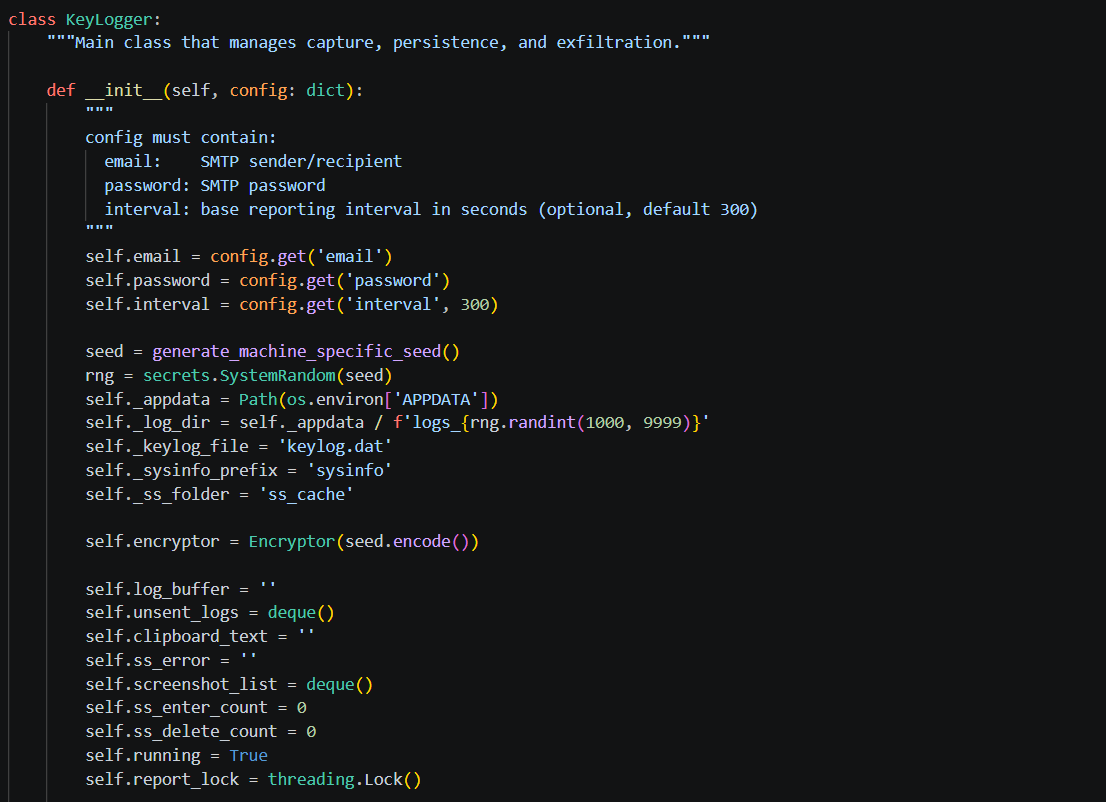
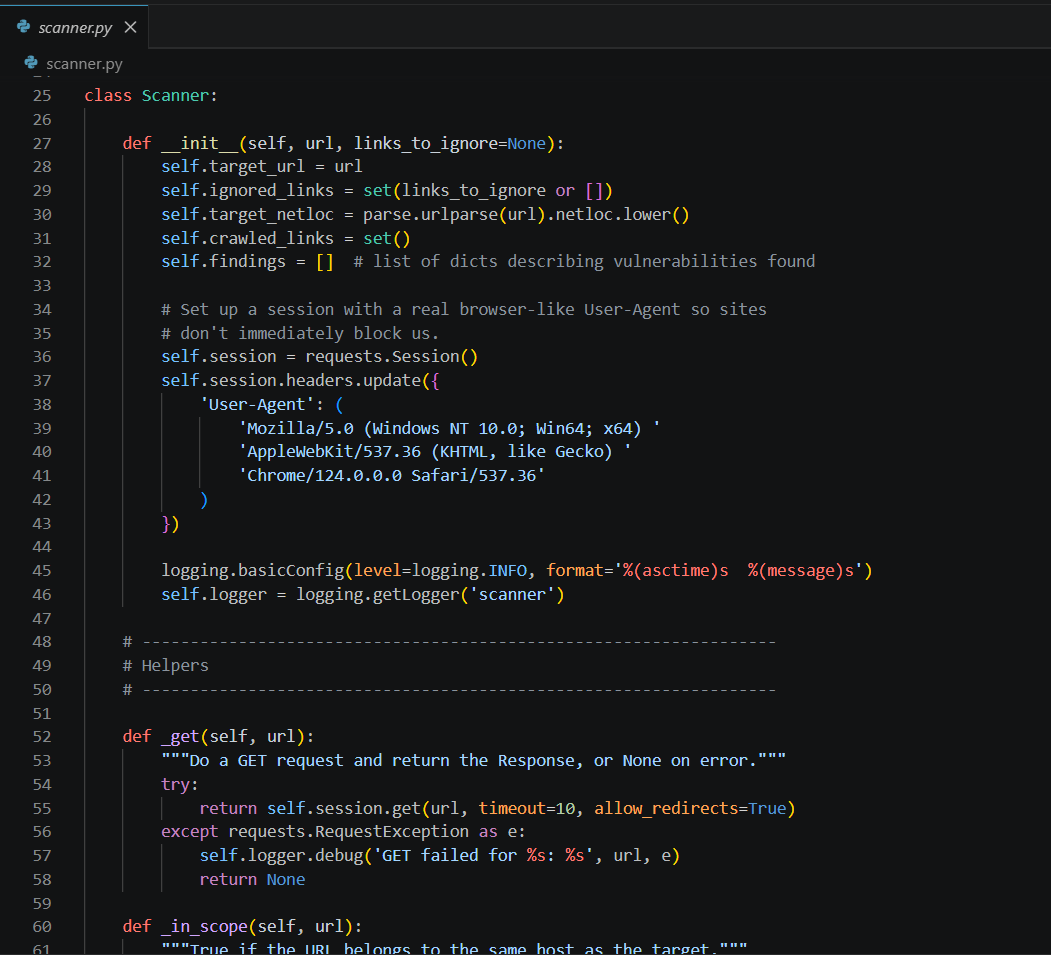
updated UI fixes

Changed region(s): [[0.0, 0.0, 0.8221, 1.0], [0.3349, 0.1247, 0.5176, 0.1559]]

diff --git a/src/components/ExperienceEducation.js b/src/components/ExperienceEducation.js
@@ -21,84 +21,87 @@ const ExperienceEducation = () => {
                             <h4 className="text-white mb-0" style={{ fontSize: '1.2rem', fontWeight: '700', letterSpacing: '0.5px' }}>Professional Experience</h4>
                         </div>
                         <div className="timeline-container">
-                            {/* Infosys - E.ON */}
+                            {/* Infosys Consolidated Experience Card */}
                             <div className="timeline-item">
                                 <div className="timeline-dot"></div>
                                 <Card className="exp-edu-card">
                                     <Card.Body>
-                                        <div className="d-flex justify-content-between align-items-start flex-wrap mb-2">
+                                        {/* Company and Global Title */}
+                                        <div className="d-flex justify-content-between align-items-start flex-wrap mb-4 pb-3 border-bottom border-secondary border-opacity-25">
                                             <div>
-                                                <h4 className="card-item-title text-white mb-0">Infosys</h4>
-                                                <span className="card-item-subtitle text-primary d-block">Specialist Programmer (Client: E.ON UK)</span>
+                                                <h4 className="card-item-title text-white mb-0" style={{ fontSize: '1.35rem', fontWeight: '800' }}>Infosys</h4>
+                                                <span className="card-item-subtitle text-primary d-block font-weight-bold" style={{ fontSize: '0.95rem' }}>Specialist Programmer</span>
                                             </div>
-                                            <span className="card-timeline-date">Feb 2026 – Present</span>
+                                            <span className="card-timeline-date text-white-50" style={{ fontWeight: '500' }}>Dec 2024 – Present</span>
                                         </div>
-                                        <ul className="subproject-bullets ps-3 mb-3">
-                                            <li>Developed reusable PySpark transformation logic to ingest data from Oracle, SharePoint, and SQL Server into Databricks Lakehouse tables while maintaining schema consistency and data quality.</li>
-                                            <li>Replicated and optimized existing Matillion workflows into Databricks pipelines, reducing processing latency.</li>
-                                            <li>Improved pipeline reliability by introducing validation checks and incremental loading, reducing data inconsistencies.</li>
-                                        </ul>
-                                        <div className="experience-tech-row d-flex flex-wrap gap-2 mt-2">
-                                            <span className="tech-badge">PySpark</span>
-                                            <span className="tech-badge">Databricks</span>
-                                            <span className="tech-badge">SQL Server</span>
-                                            <span className="tech-badge">Matillion</span>
-                                        </div>
-                                    </Card.Body>
-                                </Card>
-                            </div>
 
-                            {/* Infosys - Charter */}
-                            <div className="timeline-item mt-4">
-                                <div className="timeline-dot"></div>
-                                <Card className="exp-edu-card">
-                                    <Card.Body>
-                                        <div className="d-flex justify-content-between align-items-start flex-wrap mb-2">
-                                            <div>
-                                                <h4 className="card-item-title text-white mb-0">Infosys</h4>
-                                                <span className="card-item-subtitle text-primary d-block">Specialist Programmer (Client: Charter Communications)</span>
+                                        {/* Segment 1: E.ON UK */}
+                                        <div className="nested-experience-block mb-4 pb-3 border-bottom border-secondary border-opacity-10">
+                                            <div className="d-flex justify-content-between align-items-start flex-wrap mb-2">
+                                                <div>
+                                                    <h5 className="nested-experience-title text-white mb-0" style={{ fontSize: '1.05rem', fontWeight: '600' }}>
+                                                        E.ON UK <span className="text-secondary mx-2">•</span> <span className="text-muted" style={{ fontSize: '0.88rem', fontWeight: '400' }}>Enterprise Data Migration</span>
+                                                    </h5>
+                                                </div>
+                                                <span className="card-timeline-date text-primary" style={{ fontSize: '0.8rem', fontWeight: '600' }}>Feb 2026 – Present</span>
                                             </div>
-                                            <span className="card-timeline-date">May 2025 – Dec 2025</span>
+                                            <ul className="subproject-bullets ps-3 mb-2">
+                                                <li>Built PySpark transformations for enterprise data ingestion into Databricks Lakehouse.</li>
+                                                <li>Migrated and optimized Matillion workflows for Databricks, improving pipeline performance and reliability.</li>
+                                                <li>Added validation and incremental-loading logic to improve data quality.</li>
+                                            </ul>
+                                            <div className="experience-tech-row d-flex flex-wrap gap-2 mt-2">
+                                                <span className="tech-badge">PySpark</span>
+                                                <span className="tech-badge">Databricks</span>
+                                                <span className="tech-badge">SQL Server</span>
+                                                <span className="tech-badge">Matillion</span>
+                                            </div>
                                         </div>
-                                        <ul className="subproject-bullets ps-3 mb-3">
-                                            <li>Migrated large-scale telecom datasets from on-prem Cloudera infrastructure to AWS environments using PySpark, Amazon S3, and EC2.</li>
-                                            <li>Developed automated PySpark scripts and managed DAGs to ensure reliable data orchestration and pipeline execution.</li>
-                                            <li>Optimized PySpark ingestion for 4–5 TB partitioned datasets by introducing partition pruning and executor configuration tuning, reducing runtime by nearly 30%.</li>
-                                            <li>Integrated Apache Iceberg table formats to support scalable schema evolution and improve query efficiency.</li>
-                                        </ul>
-                                        <div className="experience-tech-row d-flex flex-wrap gap-2 mt-2">
-                                            <span className="tech-badge">PySpark</span>
-                                            <span className="tech-badge">AWS S3</span>
-                                            <span className="tech-badge">AWS EC2</span>
-                                            <span className="tech-badge">Apache Iceberg</span>
-                                        </div>
-                                    </Card.Body>
-                                </Card>
-                            </div>
 
-                            {/* Infosys - Trainee */}
-                            <div className="timeline-item mt-4">
-                                <div className="timeline-dot"></div>
-                                <Card className="exp-edu-card">
-                                    <Card.Body>
-                                        <div className="d-flex justify-content-between align-items-start flex-wrap mb-2">
-                                            <div>
-                                                <h4 className="card-item-title text-white mb-0">Infosys</h4>
-                                                <span className="card-item-subtitle text-primary d-block">Specialist Programmer Trainee</span>
+                                        {/* Segment 2: Charter Communications */}
+                                        <div className="nested-experience-block mb-4 pb-3 border-bottom border-secondary border-opacity-10">
+                                            <div className="d-flex justify-content-between align-items-start flex-wrap mb-2">
+                                                <div>
+                                                    <h5 className="nested-experience-title text-white mb-0" style={{ fontSize: '1.05rem', fontWeight: '600' }}>
+                                                        Charter Communications <span className="text-secondary mx-2">•</span> <span className="text-muted" style={{ fontSize: '0.88rem', fontWeight: '400' }}>Big Data Migration</span>
+                                                    </h5>
+                                                </div>
+                                                <span className="card-timeline-date text-primary" style={{ fontSize: '0.8rem', fontWeight: '600' }}>May 2025 – Dec 2025</span>
                                             </div>
-                                            <span className="card-timeline-date">Dec 2024 – May 2025</span>
+                                            <ul className="subproject-bullets ps-3 mb-2">
+                                                <li>Migrated large-scale telecom datasets from on-prem Cloudera to AWS S3 and EC2.</li>
+                                                <li>Optimized PySpark ingestion for 5 TB datasets, achieving a 30% reduction in query runtimes.</li>
+                                                <li>Integrated Apache Iceberg formats to support transactional ACID queries and schema evolution.</li>
+                                            </ul>
+                                            <div className="experience-tech-row d-flex flex-wrap gap-2 mt-2">
+                                                <span className="tech-badge">PySpark</span>
+                                                <span className="tech-badge">AWS S3</span>
+                                                <span className="tech-badge">AWS EC2</span>
+                                                <span className="tech-badge">Apache Iceberg</span>
+                                            </div>
                                         </div>
-                                        <ul className="subproject-bullets ps-3 mb-3">
-                                            <li>Completed intensive training under the Big Data track with hands-on exposure to Python, SQL, PySpark, AWS, and Linux/Unix systems.</li>
-                                            <li>Cleared multiple technical assessments focused on Big Data engineering, cloud infrastructure, and algorithmic problem-solving.</li>
-                                            <li>Developed a PySpark and Unix capstone project involving exploratory analysis of raw datasets to derive insights.</li>
-                                        </ul>
-                                        <div className="experience-tech-row d-flex flex-wrap gap-2 mt-2">
-                                            <span className="tech-badge">Python</span>
-                                            <span className="tech-badge">SQL</span>
-                                            <span className="tech-badge">PySpark</span>
-                                            <span className="tech-badge">AWS</span>
-                                            <span className="tech-badge">Unix/Linux</span>
+
+                                        {/* Segment 3: Specialist Programmer Trainee */}
+                                        <div className="nested-experience-block">
+                                            <div className="d-flex justify-content-between align-items-start flex-wrap mb-2">
+                                                <div>
+                                                    <h5 className="nested-experience-title text-white mb-0" style={{ fontSize: '1.05rem', fontWeight: '600' }}>
+                                                        Specialist Programmer Trainee
+                                                    </h5>
+                                                </div>
+                                                <span className="card-timeline-date text-primary" style={{ fontSize: '0.8rem', fontWeight: '600' }}>Dec 2024 – May 2025</span>
+                                            </div>
+                                            <ul className="subproject-bullets ps-3 mb-2">
+                                                <li>Completed intensive training under the Big Data track spanning Python, SQL, PySpark, AWS, and Linux/Unix.</li>
+                                                <li>Cleared technical assessments in data engineering, cloud infrastructure, and algorithmic problem-solving.</li>
+                                            </ul>
+                                            <div className="experience-tech-row d-flex flex-wrap gap-2 mt-2">
+                                                <span className="tech-badge">Python</span>
+                                                <span className="tech-badge">SQL</span>
+                                                <span className="tech-badge">PySpark</span>
+                                                <span className="tech-badge">AWS</span>
+                                                <span className="tech-badge">Unix/Linux</span>
+                                            </div>
                                         </div>
                                     </Card.Body>
                                 </Card>

diff --git a/src/data/contributions.js b/src/data/contributions.js
@@ -1,42 +1,42 @@
 export const contributionsData = [
     {
         repository: "WeblateOrg/weblate",
-        title: "REST API improvement / asynchronous project deletion",
-        description: "Updated project deletion to return a 202 Accepted response with an asynchronous task status URL and updated the OpenAPI specification.",
+        title: "checks: make Kashida check less aggressive",
+        description: "Updated character validation checks with Unicode-aware matching for Arabic script to prevent false positives and added robust testing suites.",
+        technologies: ["Python", "Regex", "Unicode", "Testing"],
+        url: "https://github.com/WeblateOrg/weblate/pull/21003",
+        accent: "cyan",
+        pr: "PR #21003",
+        status: "Merged"
+    },
+    {
+        repository: "WeblateOrg/weblate",
+        title: "Return 202 Accepted for asynchronous project deletion API",
+        description: "Updated project deletion REST API endpoint to return 202 Accepted response with Celery task metadata status URL, extending schema docs and tests.",
         technologies: ["Python", "Django", "Celery", "OpenAPI"],
         url: "https://github.com/WeblateOrg/weblate/pull/21020",
         accent: "cyan",
         pr: "PR #21020",
-        status: "Merged"
-    },
-    {
-        repository: "mesonbuild/meson",
-        title: "MSYS2 / MinGW-w64 packaging documentation",
-        description: "Added documentation covering packaging Meson projects for MSYS2/MinGW-w64 environments.",
-        technologies: ["Meson", "MSYS2", "MinGW-w64", "Documentation"],
-        url: "https://github.com/mesonbuild/meson",
-        accent: "teal",
-        pr: "PR #12630",
-        status: "Merged"
+        status: "Open"
     },
     {
         repository: "oracle/opengrok",
-        title: "JavaScript tokenizer improvements",
-        description: "Worked on JavaScript symbol/tokenization behavior and associated tests.",
-        technologies: ["Java", "JavaScript", "Tokenization", "JUnit"],
-        url: "https://github.com/oracle/opengrok",
+        title: "Bound pathological addFile() cost by truncating REFS tokenization",
+        description: "Limited pathological symbol indexing costs by introducing an emitted-token limit in JFlexTokenizer for the REFS field and added JUnit regression test suites.",
+        technologies: ["Java", "JFlex", "Tokenization", "JUnit"],
+        url: "https://github.com/oracle/opengrok/pull/4994",
         accent: "cyan",
-        pr: "PR #4102",
-        status: "Merged"
+        pr: "PR #4994",
+        status: "Open"
     },
     {
-        repository: "VKspyder2003/self-heal",
-        title: "Testing / code quality improvements",
-        description: "Improved tests and code quality while working within an existing open-source codebase.",
-        technologies: ["Python", "Testing", "Pytest", "Git"],
-        url: "https://github.com/VKspyder2003/self-heal",
+        repository: "Johin2/self-heal",
+        title: "Add RepairResult report export and --report CLI option",
+        description: "Implemented report export capabilities (JSON/JSONL serialization) for RepairResult, unified diff-based traces, and added a --report CLI flag.",
+        technologies: ["Python", "Serialization", "CLI", "Testing"],
+        url: "https://github.com/Johin2/self-heal/pull/82",
         accent: "teal",
-        pr: "PR #15",
+        pr: "PR #82",
         status: "Merged"
     }
 ];

diff --git a/src/components/Projects.js b/src/components/Projects.js
@@ -43,13 +43,14 @@ const Projects = () => {
                             <div className="project-actions-v2 d-flex align-items-center flex-wrap gap-4 mt-2">
                                 {project.links.map((link, idx) => {
                                     const isPrimary = link.type === 'live' || (!hasLiveDemo && idx === 0);
+                                    const isAnchor = link.href.startsWith('#');
                                     
                                     if (isPrimary) {
                                         return (
                                             <Button 
                                                 href={link.href} 
-                                                target="_blank" 
-                                                rel="noreferrer" 
+                                                target={isAnchor ? undefined : "_blank"} 
+                                                rel={isAnchor ? undefined : "noreferrer"} 
                                                 key={idx} 
                                                 className="primary-button project-primary-btn"
                                             >
@@ -60,8 +61,8 @@ const Projects = () => {
                                         return (
                                             <a 
                                                 href={link.href} 
-                                                target="_blank" 
-                                                rel="noreferrer" 
+                                                target={isAnchor ? undefined : "_blank"} 
+                                                rel={isAnchor ? undefined : "noreferrer"} 
                                                 key={idx} 
                                                 className="project-secondary-link"
                                             >

diff --git a/src/data/projects.js b/src/data/projects.js
@@ -7,17 +7,17 @@ export const featuredProjects = [
     {
         title: "Lakehouse Data Pipeline",
         category: "DATA ENGINEERING",
-        description: "A scalable data pipeline migrating telecom datasets from Cloudera to AWS using PySpark and Apache Iceberg.",
+        description: "A cloud-based data engineering pipeline demonstrating distributed processing, lakehouse architecture, and scalable data transformation using Spark-based technologies.",
         highlights: [
-            "Migrated large-scale telecom datasets from on-prem Cloudera to AWS S3 and EC2.",
-            "Optimized PySpark processing for 5 TB datasets, achieving a 30% runtime reduction.",
-            "Implemented Apache Iceberg formats to support transactional ACID queries and schema evolution."
+            "Distributed processing with PySpark and Apache Spark",
+            "Cloud-based data storage and pipeline architecture",
+            "Apache Iceberg for reliable analytical tables and schema evolution"
         ],
         technologies: ["PySpark", "Databricks", "AWS (S3/EC2)", "Apache Iceberg"],
         image: projectDataPipeline,
         accent: "indigo",
         links: [
-            { label: "GitHub", href: "https://github.com/VKspyder2003/", type: "github" }
+            { label: "See Experience", href: "#experience", type: "href" }
         ]
     },
     {

diff --git a/src/components/Skills.js b/src/components/Skills.js
@@ -141,7 +141,7 @@ const Skills = () => {
                                                     </div>
                                                 </div>
                                                 <Card.Text className="profile-card-description">
-                                                    Check my competitive programming stats, school assessment points, and technical articles.
+                                                    Check my programming stats, school assessment points, and technical skillset.
                                                 </Card.Text>
                                             </div>
                                             <div className="mt-3">

diff --git a/src/App.css b/src/App.css
@@ -1796,6 +1796,21 @@ p.danger {
     margin-bottom: 0;
 }
 
+.nested-experience-block {
+    position: relative;
+}
+
+.nested-experience-title {
+    font-size: 1.05rem;
+    font-weight: 600;
+}
+
+.card-timeline-date.text-white-50 {
+    background: rgba(255, 255, 255, 0.06) !important;
+    color: rgba(255, 255, 255, 0.6) !important;
+    border: 1px solid rgba(255, 255, 255, 0.08) !important;
+}
+
 /* Contact Simplified Form */
 .contact {
     padding: clamp(80px, 12vh, 140px) 0;
